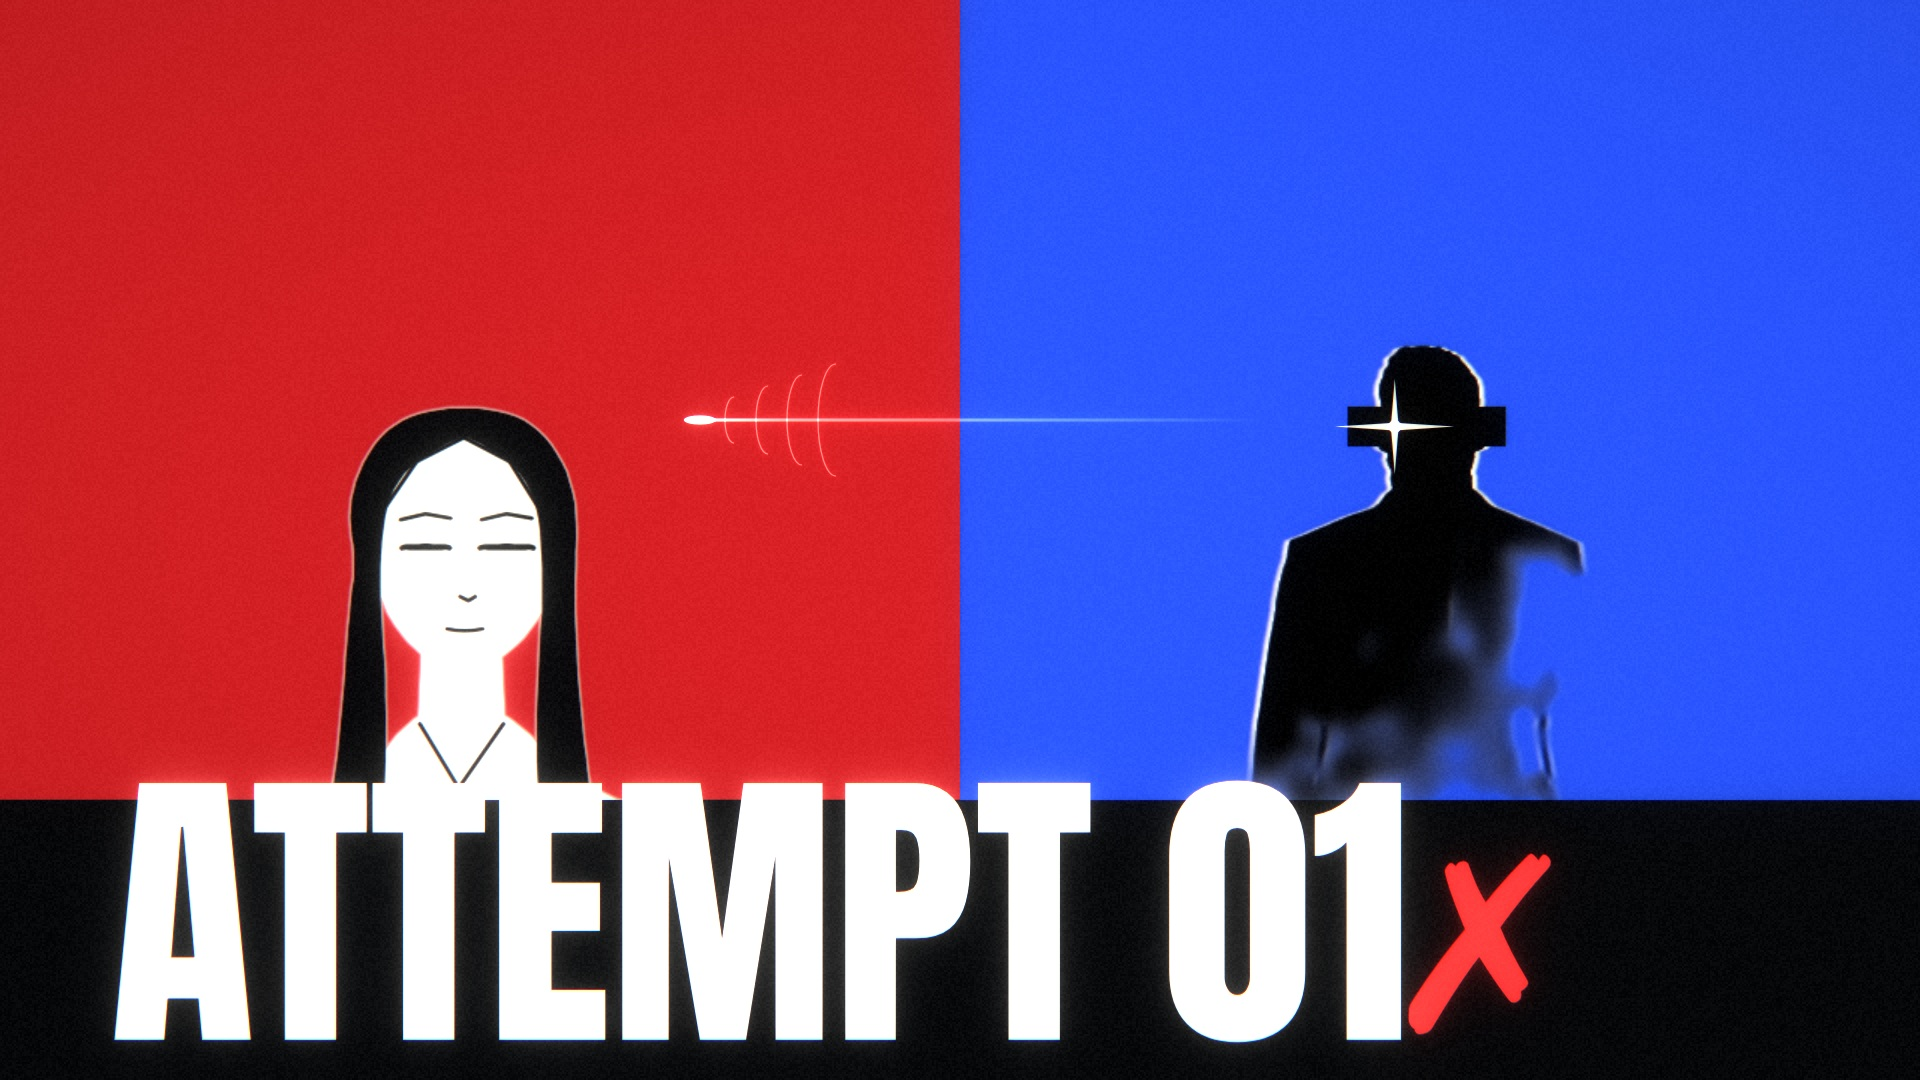
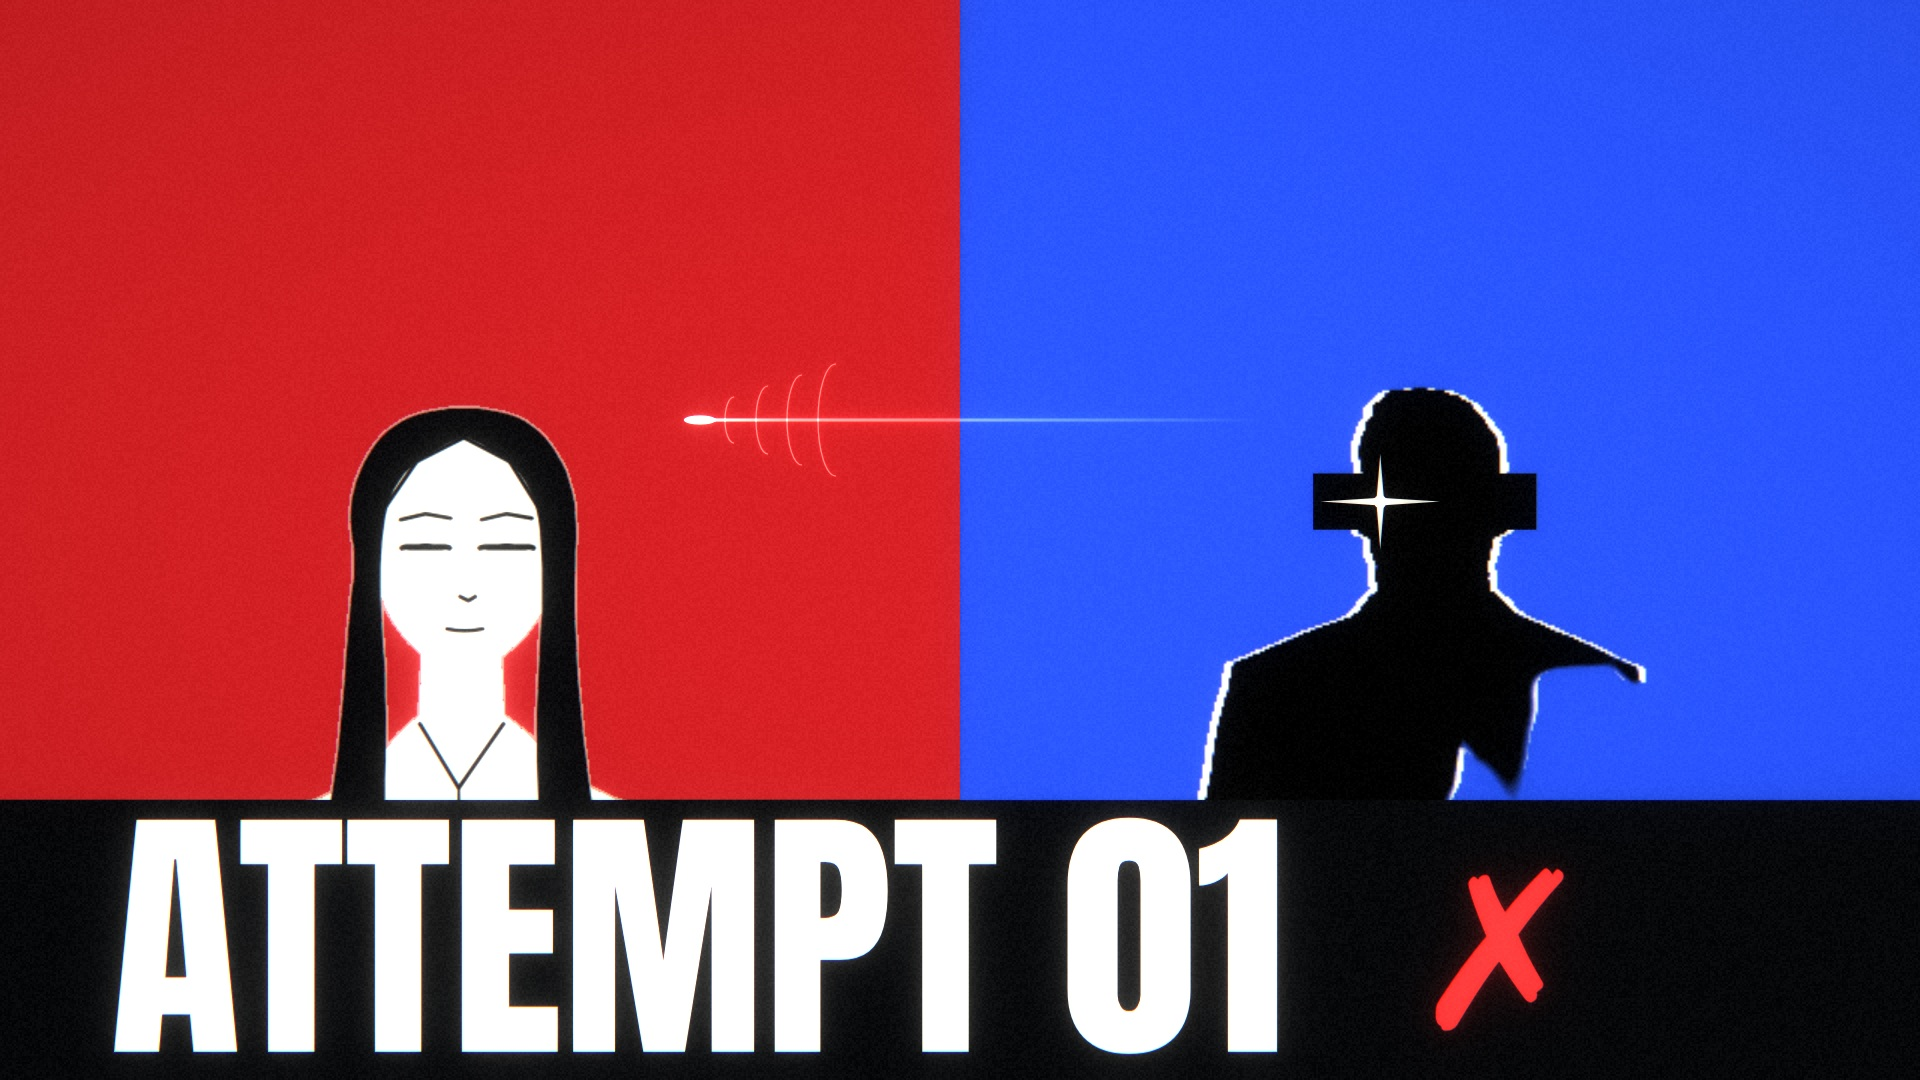
WIP: agent outputs
Claude-Session: https://claude.ai/code/session_01QH8JxH6iaaco1ynhTZZBdC

Changed region(s): [[0.0625, 0.3056, 0.875, 0.9778]]

diff --git a/render/src/roto.js b/render/src/roto.js
@@ -59,7 +59,7 @@ export function perFrame(id, clipT) { const m = meta(id); if (!m || !m.per_frame
 // ------------------------------------------------------------------------------------------------
 // helpers working at roto resolution (scratch canvases match the roto frame size)
 
-function scratch(name, m) { return layer('roto_' + name, m.w, m.h); }
+function scratch(name, m) { const c = layer('roto_' + name, m.w, m.h); if (!c.ctxR) { c.ctxR = true; c.ctx = c.getContext('2d', { willReadFrequently: true }); } return c; }
 // tint a white-on-transparent bitmap into a scratch canvas
 function tinted(name, m, bmp, color, alpha = 1, times = 1) {
   const c = scratch(name, m), g = clearLayer(c);
@@ -72,10 +72,12 @@ function tinted(name, m, bmp, color, alpha = 1, times = 1) {
 function ring(name, m, bmp, r, color, dir = null) {
   const c = scratch(name, m), g = clearLayer(c);
   if (dir) g.drawImage(bmp, -dir[0] * r, -dir[1] * r, m.w, m.h);
+  else if (false) {}
   else for (let k = 0; k < 8; k++) { const a = k * Math.PI / 4; g.drawImage(bmp, Math.cos(a) * r, Math.sin(a) * r, m.w, m.h); }
-  g.globalCompositeOperation = 'destination-out'; g.drawImage(bmp, 0, 0, m.w, m.h);
+  hardAlpha(c); g.globalCompositeOperation = 'destination-out'; g.drawImage(bmp, 0, 0, m.w, m.h); g.drawImage(bmp, 0, 0, m.w, m.h);
   g.globalCompositeOperation = 'source-in'; g.fillStyle = color; g.fillRect(0, 0, m.w, m.h);
   g.globalCompositeOperation = 'source-over';
+  hardAlpha(c);
   return c;
 }
 
@@ -134,7 +136,7 @@ export function jade(g, id, clipT, o = {}) {
   } else {
     if (o.rim) { a.globalAlpha = clamp(o.rim.alpha ?? 0.6); a.drawImage(ring('jrim', m, mt, o.rim.w ?? 1.6, o.rim.color || PAL.bone), 0, 0); a.globalAlpha = 1; }
     const F0 = scratch('jadeF', m), f0 = clearLayer(F0);
-    for (let k = 0; k < 3; k++) f0.drawImage(mt, 0, 0, m.w, m.h);
+    f0.drawImage(mt, 0, 0, m.w, m.h); hardAlpha(F0);
     f0.globalCompositeOperation = 'source-in'; f0.fillStyle = o.fill || PAL.bone; f0.fillRect(0, 0, m.w, m.h);
     f0.globalCompositeOperation = 'source-over';
     a.drawImage(F0, 0, 0);
@@ -178,7 +180,8 @@ export function suits(g, id, clipT, o = {}) {
   if (o.rimL) { a.globalAlpha = clamp(o.rimAmt ?? 1); a.drawImage(ring('rimL', m, mt, 3.5, o.rimL, [-1, 0]), 0, 0); }
   if (o.rimR) { a.globalAlpha = clamp(o.rimAmt ?? 1); a.drawImage(ring('rimR', m, mt, 3.5, o.rimR, [1, 0]), 0, 0); }
   a.globalAlpha = 1;
-  const B = tinted('suitB', m, mt, '#000000', 1, 3);
+  const B = tinted('suitB', m, mt, '#000000', 1, 1);
+  hardAlpha(B);   // flat cut-out: no soft/partial matte lets the world show through as smudge
   a.drawImage(B, 0, 0);
   g.save();
   const r = o.rect || { x: 0, y: 0, w: DW, h: DH }, kx = r.w / m.w, ky = r.h / m.h;
@@ -217,6 +220,12 @@ export function star(g, x, y, R, a, col) {
   g.restore();
 }
 
+// threshold a scratch canvas' alpha (ramp 70..130) so mattes are FLAT shapes, never textured
+export function hardAlpha(c) {
+  const g = c.ctx, im = g.getImageData(0, 0, c.width, c.height), d = im.data;
+  for (let i = 3; i < d.length; i += 4) { const a = d[i]; d[i] = a < 96 ? 0 : a > 112 ? 255 : (a - 96) * 15.9; }
+  g.putImageData(im, 0, 0);
+}
 // ---- light layer (format addition): RGB = the light's own colour, alpha = brightness; drawn additively ----
 // tools/roto atlas ('light', 960x270): left half R siren_red G sodium B siren_blue, right half R cold_white G ground B luma.
 // Colourised once per frame into a 480x270 RGBA canvas (cached), then drawn additively like 'lights'.

diff --git a/render/src/shots.js b/render/src/shots.js
@@ -35,7 +35,7 @@ export function buildShots(T) {
   // suit black at right with bar + glint, the bullet suspended between them
   const tableau = () => [{ type: 'rect', x: 0, w: DW / 2, color: '#C81E22' }, { type: 'rect', x: DW / 2, w: DW / 2, color: '#2347D6' },
     jade('J3', { cam: { from: [0.76, 0.42, 1.0], to: [0.76, 0.42, 1.0], dx: -500, dy: 30 }, mouth: false }),
-    { type: 'suits', roto: R.suits('B6'), cam: { from: [0.416, 0.3, 1.7], to: [0.416, 0.3, 1.7], dx: 470, dy: 20 }, rimL: PAL.bone, rimR: PAL.bone, glint: 1 },
+    { type: 'suits', roto: R.suits('B6'), cam: { from: [0.416, 0.3, 2.4], to: [0.416, 0.3, 2.4], dx: 470, dy: 150 }, rimL: PAL.bone, rimR: PAL.bone, glint: 1 },
     { type: 'bullet', x: 700, y: 420, len: 560, angle: Math.PI, color: PAL.bone }];
 
   // =============================== 0 · INTRO 0 – 13.45 (the hook) ===============================
@@ -44,8 +44,8 @@ export function buildShots(T) {
   // frame 0 = the thumbnail: one clear read. red | blue, her white figure, the black redacted suit (bar + glint), the
   // suspended bullet between them; ATTEMPT 01 ✗ on a calm ink band. No HUD.
   C('H0_tableau', 0, bt(1), [...tableau(), { type: 'rect', y: 800, h: 280, color: PAL.ink },
-    { type: 'slam', text: 'ATTEMPT 01', variant: 'center', at: 0, x: 110, align: 'left', y: 1040, maxH: 230, maxW: 1300, stutter: 0, color: PAL.bone },
-    { type: 'glyph', ch: '✗', x: 1480, y: 950, size: 300, color: PAL.red, onType: false }],
+    { type: 'slam', text: 'ATTEMPT 01', variant: 'center', at: 0, x: 110, align: 'left', y: 1052, maxH: 200, maxW: 1250, stutter: 0, color: PAL.bone },
+    { type: 'glyph', ch: '✗', x: 1500, y: 955, size: 270, color: PAL.red, onType: false }],
     { fx: { heart: 0 } }, { post: { bloom: 0.15, ca: 0.8, vignette: 0.15 } });
   // H1: the whole video backwards at ×64 — a trailer in reverse; lands on the dark road
   add('H1_scrub', bt(1), bt(9), 'rewind', { from: sec('end').start - 0.5, to: v1, speeds: [64], segs: [1], hold: 0, echo: 0, badge: 64 }, { fx: { jerks: [bt(1)] } });

diff --git a/render/README.md b/render/README.md
@@ -98,6 +98,32 @@ After each frame the current shot is prefetched for about 10 frames ahead and 2 
   (docs/LIKENESS_RULES.md). `ghost: true` gives the outline-only past self, `rim` gives an edge light, `light` gives a sodium/siren wash.
 - `suits()`: black cut-out, one-sided siren rim, FOIA face bars wider than the head plus a `(b)(6)` label, sunglasses glint stars.
 
+#### Production roto (`tools/roto/roto.py`, see tools/roto/README.md)
+`assets/roto/<CLIP>/` (E1, E2_calm, S1, J6, ...) at 15 fps, **1920x1080** (bitmaps are 8.3 MB decoded: consider MAX ≈ 80).
+Layers: `lines` (vector-traced contours), `matte` (primary subject alpha), `mattes` (opaque RGB: R jade, G suits, B car),
+`light` (opaque 960x270 atlas; left R red / G sodium / B blue, right R cold white / G grass ground / B luma),
+`flow` (240x135, R/G = dx/dy in 1080p px per drawing, `v = sign(c-128)*((|c-128|/127)^2)*128`), and for J shots
+`face`, `features`, `hair` + `face.json`. `meta.json` documents all codes (`light_atlas`, `flow_code`, `channels`).
+Suits: `per_frame[i].faces/glints` come from head peaks on the suit matte.
+
+**Jade face (J shots): template eyes, footage anchors.** Seedance shrinks her eyes within a clip (iris −7..−19 %, opening
+−12..−45 %), so `features` never trace the footage eyes. The eye lids, iris, fine double-eyelid crease and each brow
+(per side, pixel-measured, asymmetric, tapered) are drawn from her canonical real-photo template
+(`tools/roto/templates/jade_front.json`, built by `tools/roto/template.py build` from the core real photos), rotated by the
+footage head pose (MediaPipe transformation matrix: yaw/pitch/roll, far eye foreshortened / dropped past ±42° yaw),
+anchored at the footage canthi midpoint and scaled by footage face width × her real IOD/face-width ratio (median of 9).
+Openness is always her real mean; only a real blink (blendshape > 0.6) closes the lids. Gaze = footage iris offset, clamped.
+Profile shots (MediaPipe cannot see them, e.g. J1): `tools/roto/anchors/<SHOT>.json` gives iris centre E / nose tip N /
+mouth corner on frame 0; the head is KLT-tracked (RANSAC similarity) and the hand-annotated profile template
+(`jade_profile.json`, from refs/jade/PXL_20260929_003030232.jpg) is mapped E,N→E,N. Footage is used only for the lower
+jaw, nose-tip mark, face oval / skin mask (lines suppressed inside) and hair.
+`face.json[i]` = per frame `{mode: front|profile|front_hold, eye_R_upper/lower/crease/iris/closure, eye_L_*, brow_R, brow_L
+(closed polygons), jaw, nose, lips, yaw, template_scale_px}` (profile: `eye_near_*`, `brow_near`, `E`, `N`), all 1080p px.
+Mouth: `per_frame[i].mouth=[x,y,w]`, `tilt`, `mouth_open_raw` (footage inner-lip gap / IOD at t) and `mouth_open` =
+raw(t − 0.29 s), i.e. the footage track shifted +0.29 s because Seedance lip-sync leads the audio; `T.e('vocal')` stays
+the primary mouth driver. `per_frame[i].likeness` = tools/likeness gate on the footage every 3rd frame (advisory, it
+measures the shrinking footage, not our drawing); failing frames are listed in `meta.likeness_flags`.
+
 ## CLI
 ```
 node render.mjs --list [--shots lookdev]
